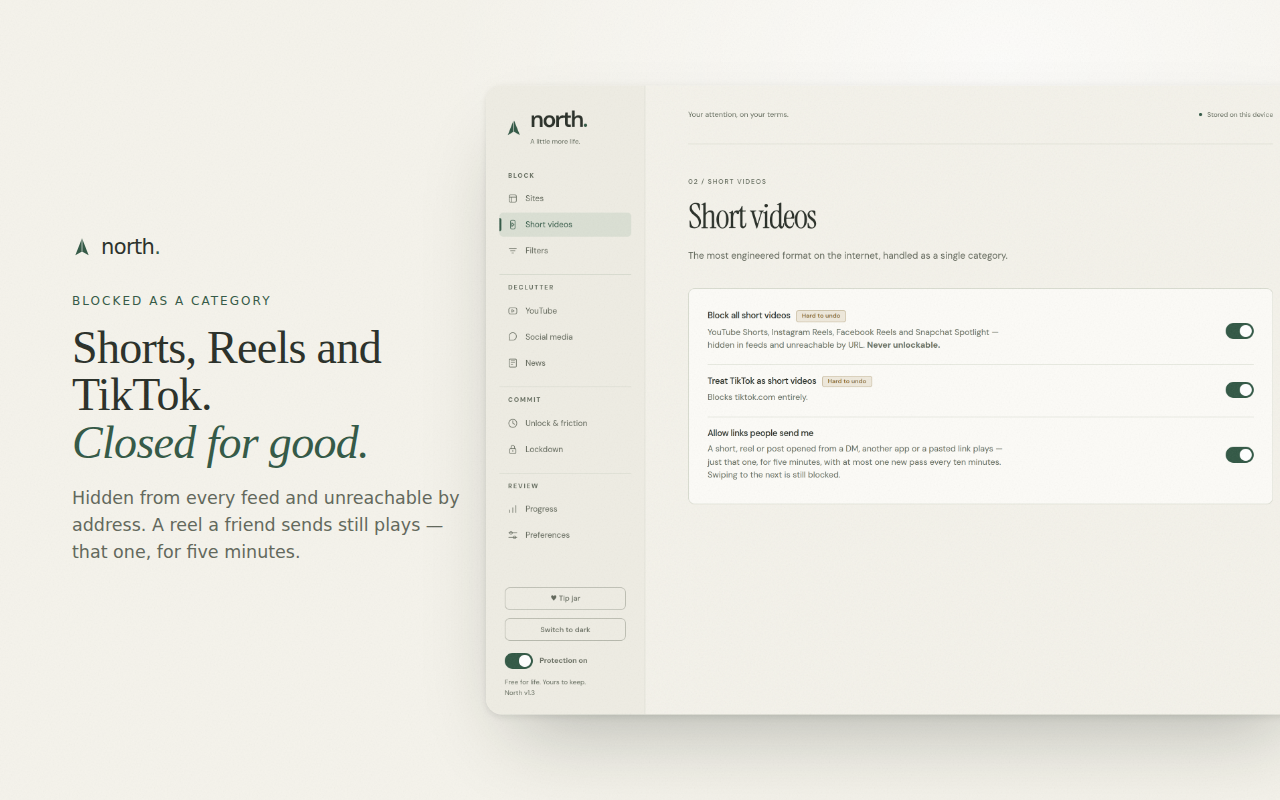
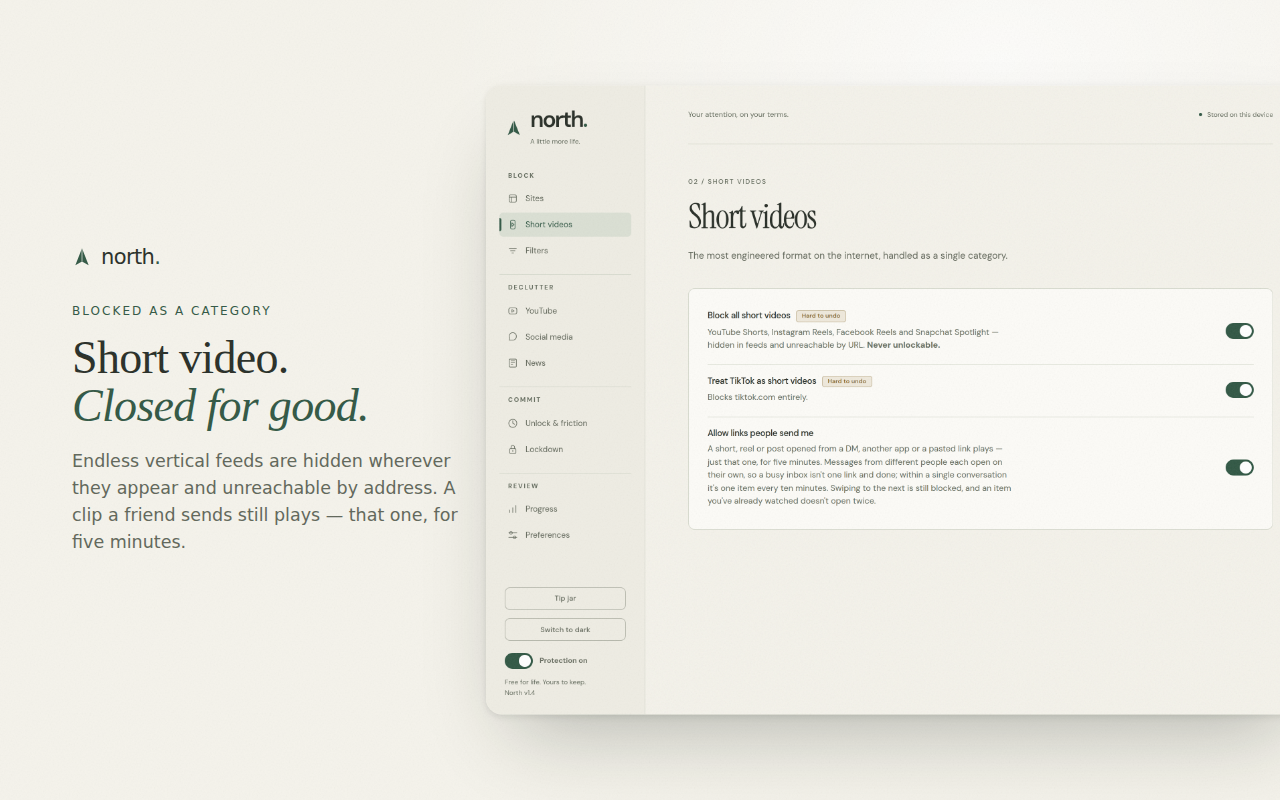
Rewrite the store copy that was rejected for keyword spam
The Web Store rejected the last submission (policy reference "Yellow Argon")
over a sentence in the dashboard: "YouTube Shorts, Instagram Reels, Facebook
Reels, Snapchat Spotlight, TikTok, adult content, custom websites, and pages
matching your own blocked keywords." A run of platform names reads as keyword
stuffing to review however accurate it is, and the same shape was sitting in
the listing copy and, more importantly, in the screenshot captions and promo
tiles, which the spam policy covers too.

So the listing now describes what North blocks by category, and names a
platform only where a feature is specific to it, in a sentence rather than a
comma run. STORE-LISTING.md carries replacement text for the rejected field
(short and long), plain-sentence permission justifications, and the rule
itself at the top so this doesn't come back. The screenshot captions and both
promo tiles are rewritten and the seven store images regenerated from the
current build, so they also show v1.4 and the one-minute pause. The legacy
generators in scripts/ lost their brand lists as well.

Product copy inside the extension is untouched: it isn't store metadata, and
naming the formats it blocks is what makes that setting useful.

Claude-Session: https://claude.ai/code/session_01Kvi5FKBed49JGQJ15EzZLk

diff --git a/scripts/create-promo-tiles.js b/scripts/create-promo-tiles.js
@@ -141,7 +141,7 @@ const SMALL = doc(440, 280, `
       <div class="brand" style="font-size:22px"><img src="${iconUrl}" width="40" height="40" alt="">North</div>
       <div class="tag" style="margin-top:18px; font-size:12.5px">free for life</div>
       <h1 style="margin-top:16px; font-size:33px">find your true north.</h1>
-      <p style="margin-top:12px; font-size:15px; max-width:330px">block Shorts, Reels and the sites that eat your day.</p>
+      <p style="margin-top:12px; font-size:15px; max-width:330px">block the endless feeds and the sites that eat your day.</p>
     </div>
   </div>`);
 
@@ -152,7 +152,7 @@ const MARQUEE = doc(1400, 560, `
       <div class="brand" style="font-size:34px"><img src="${iconUrl}" width="60" height="60" alt="">North</div>
       <div class="tag" style="margin-top:26px; font-size:18px">free for life. actually.</div>
       <h1 style="margin-top:22px; font-size:74px; max-width:760px">block the stuff that eats your day.</h1>
-      <p style="margin-top:22px; font-size:26px; max-width:640px">Shorts, Reels, TikTok and distracting sites, gone. your DMs stay. no account, no tracking.</p>
+      <p style="margin-top:22px; font-size:26px; max-width:640px">the endless feeds and the sites that take your day, gone. your messages stay. no account, no tracking.</p>
       <div class="button" style="margin-top:34px; min-width:280px; height:60px; font-size:20px">find your true north</div>
     </div>
   </div>`);

diff --git a/scripts/create-ad-screenshots.js b/scripts/create-ad-screenshots.js
@@ -198,7 +198,7 @@ const slides = [
         <div class="copy">
           <div class="brand"><img src="${iconUrl}" alt="">North</div>
           <h1>short videos stay closed.</h1>
-          <p>block the formats built for endless swiping: Shorts, Reels, TikTok, Spotlight and more.</p>
+          <p>block the formats built for endless swiping, as one category rather than one site at a time.</p>
           <div class="chips">
             <span class="chip">no infinite feed</span>
             <span class="chip">shared links still play</span>

diff --git a/STORE-LISTING.md b/STORE-LISTING.md
@@ -1,8 +1,20 @@
 # North — Chrome Web Store listing copy
 
 Voice: plain, composed, sentence case. Direct without being chummy; no snark
-at the reader, no em dashes in store copy. Proper nouns keep their caps
-(North, YouTube, Shorts, Reels, TikTok, Instagram). "Tip", never "donate".
+at the reader, no em dashes in store copy. "Tip", never "donate".
+
+Hard rule, learned the hard way: never list platform names in a row. A
+submission was rejected for keyword spam (policy reference "Yellow Argon")
+over one sentence in the dashboard — "YouTube Shorts, Instagram Reels,
+Facebook Reels, Snapchat Spotlight, TikTok, adult content, custom websites,
+and pages matching your own blocked keywords." A run of brand names reads as
+keyword stuffing to review, however accurate it is. So: describe what North
+blocks by category, and name a platform only where a feature is genuinely
+specific to it (the YouTube controls, the messages-only modes), at most once,
+inside a sentence rather than a comma run. The same rule covers the title,
+the summary, the manifest description, screenshot captions and every
+justification field in the dashboard. In-product copy is not store metadata
+and is not affected.
 
 ---
 
@@ -21,6 +33,12 @@ so the full line lives in the first paragraph of the description below:
 and keywords, with schedules, daily limits, and an unlock you have to mean.
 Free forever."
 
+The summary lists features, not platforms, which is not what the keyword-spam
+rejection was about. If a reviewer reads the run of commas the same way, this
+says the same thing as prose and fits the cap (107):
+"Blocks the feeds and sites that take your day, with schedules, daily limits
+and an unlock you have to mean."
+
 ## Detailed description
 
 North blocks everything you don't need to see, short-form videos, distracting sites and keywords, with schedules, daily limits, and an unlock you have to mean. Free forever, with no account and no tracking.
@@ -29,11 +47,11 @@ Most blockers paywall the features that actually work, then switch off in two cl
 
 What North does:
 
-• Short videos, closed. Shorts, Reels, TikTok and Snapchat Spotlight are blocked as a category: hidden in feeds, unreachable by URL, and never unlockable. A reel someone sends you still plays, just that one. If three people send you something while you were away, all three open; a conversation full of reels does not.
+• Short videos, closed. North treats endless vertical video as one category rather than a list of sites: those feeds are hidden where they appear, unreachable by direct link, and never unlockable. A clip someone sends you still plays, just that one. If three people send you something while you were away, all three open; a conversation full of clips does not.
 
 • Rules for the sites that pull you in. Block a site always, on a schedule (work hours, study blocks, evenings), or once a daily time budget runs out. Midnight resets the clock.
 
-• Messages-only modes. Keep your DMs on Instagram, LinkedIn, Facebook and X while the feeds, Explore and trending stop loading. Each site opens straight to your inbox.
+• Messages-only modes. A social network can run as an inbox and nothing else: the site opens straight to your conversations while its feed and discovery pages stop loading. Supported on Instagram, LinkedIn, Facebook and X, each switched on separately.
 
 • YouTube on your terms. Choose the topics you actually came for, and the rest fades from feeds and search. The home page, related videos, comments and the sidebar can go too, including the wall of recommendations after a video ends.
 
@@ -51,9 +69,32 @@ Private by design: no account, no servers, no tracking. Your settings and statis
 
 Free for life. Every feature, for everyone, always. No trial, no premium tier, no feature caps. North runs on optional tips, and that is the whole model.
 
-Works on Chrome, Edge, Brave, Arc and other Chromium browsers.
+Works in Chrome and other Chromium browsers.
 
 Find your true north.
 
 ## Single-purpose description (for the privacy / permissions tab)
 North is a focus tool that blocks distracting websites and short-form video, and adds deliberate friction before a blocked site can be unlocked. All blocking rules and statistics are stored locally in the browser; North has no servers and collects no data.
+
+## "What does North block?" — the sentence that was rejected
+
+Whichever dashboard field carried the rejected sentence, this replaces it. It
+says the same thing by category, with no run of platform names:
+
+North blocks short-form video feeds as a single category, any site you add to your own list, and pages matching keywords you choose. Adult content is filtered out by default and cannot be unlocked.
+
+Longer variant, if the field has room:
+
+North blocks three things: endless short-form video, wherever it appears; the sites you put on your own list, always or on a schedule or once a daily time budget runs out; and pages that match keywords you choose, across every site at once. Adult content is filtered out by default and cannot be unlocked. Nothing is blocked until you choose it, and every rule lives in your browser.
+
+## Permission justifications
+
+Written the same way: one plain sentence of purpose per permission, no lists
+of sites, no feature keywords carried over from the description.
+
+- storage: Saves your blocking rules and your statistics in the browser. Nothing is sent anywhere.
+- tabs and webNavigation: Lets North see the address a tab is opening so it can decide whether that page is blocked by one of your rules.
+- alarms: Ends focus sessions, daily limits and timed unlocks when their time is up.
+- idle: Stops counting time towards a daily limit while you are away from the computer.
+- notifications: Tells you when a focus session or a lockdown has finished.
+- host permissions: Your rules can cover any site you choose, so North has to be able to check the page you are opening against them. It reads the address and the page title, and nothing else.
